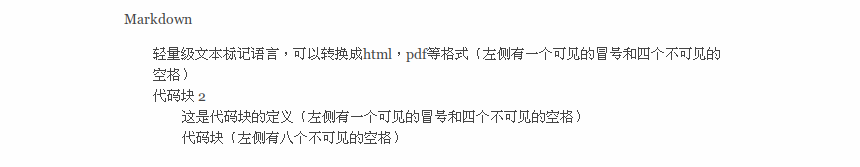
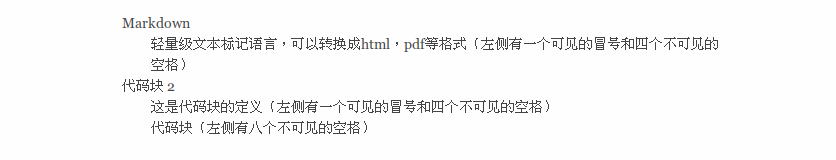
fix picture of definitionList

Changed region(s): [[0.1244, 0.2188, 0.8708, 0.875], [0.1244, 0.0625, 0.2488, 0.1875]]

diff --git a/source/_posts/Markdown-baisc-grammar.md b/source/_posts/Markdown-baisc-grammar.md
@@ -167,7 +167,7 @@ Markdown
         代码块（左侧有八个不可见的空格）
 ```
 **显示效果：**
-经过试验，在hexo下并不支持定义型列表，但是此处只能贴一张效果图：
+经过试验，在hexo下并不支持定义型列表，所以此处只能贴一张效果图：
 ![效果图](/myblog/images/Local-Gallery/markdown-definitionList.png "定义型列表")
 
 ### 字体颜色与字体背景颜色
